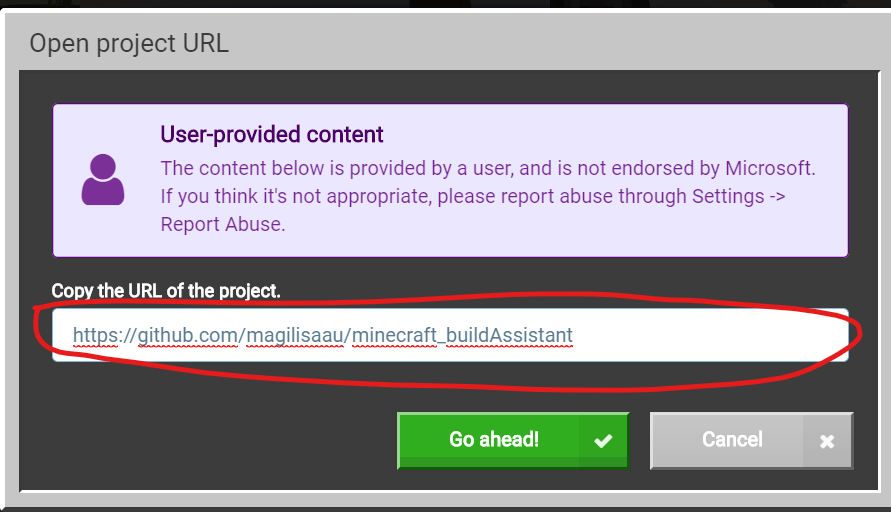
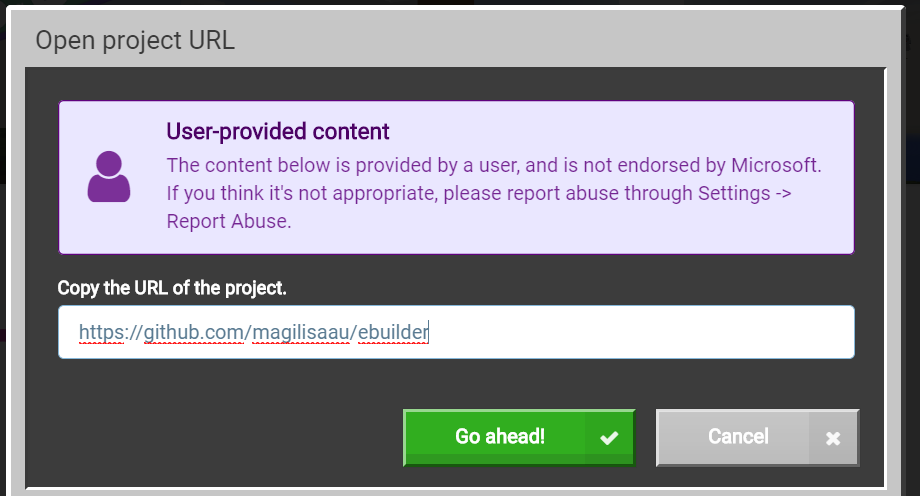
update readme.md

Changed region(s): [[0.0, 0.0, 1.0, 1.0]]

diff --git a/README.md b/README.md
@@ -1,4 +1,4 @@
-									Minecraft Build Assistant Document
+									Minecraft ebuilder Document
 
                                                                                       Magi, magilisaau@gmail.com, 2020.5.24
 
@@ -30,13 +30,13 @@ summon FallingSand ~ ~1 ~ {Time:1,Block:redstone_block,Riding:{id:FallingSand,Ti
 
 the relationship between them are 
 
-![software structure](.\pic\soft_structure.png)
+<img src=".\pic\soft_structure.png" style="zoom:80%;" />
 
 
 
 let's look at several concepts in the code first.
 
-**block:**  blocks are the smallest unit of building, every type of block is represented by a number, for example, 0 represents for air, 1: stone, 2:  grass block, 9: water,  for detail please refer to  https://github.com/magilisaau/minecraft_buildAssistant/blob/master/blockid.py
+**block:**  blocks are the smallest unit of building, every type of block is represented by a number, for example, 0 represents for air, 1: stone, 2:  grass block, 9: water,  for detail please refer to https://github.com/magilisaau/ebuilder/blob/master/blockid.py
 
 **mark**: mark is a position on the map in game which you have marked for later use. Thinking about building a wall. First step, mark a place. Then, mark another place. At last, build a wall between two marks. in this project, <u>*mark is used to select a building or a space.*</u>
 
@@ -87,7 +87,7 @@ As mentioned before, the code can only be used on Minecraft EE,   you can get th
 
 <img src=".\pic\import_url1.png" style="zoom:50%;" />
 
-3. paste https://github.com/magilisaau/minecraft_buildAssistant 
+3. paste https://github.com/magilisaau/ebuilder
 
 <img src=".\pic\import_url2.png" style="zoom:50%;" />
 
